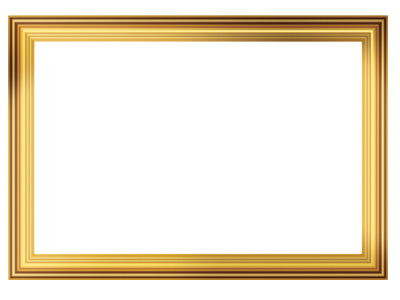
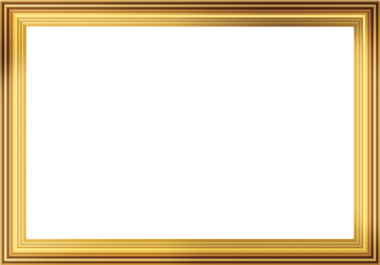
hw done

diff --git a/Sontag_Response_Site/index.html b/Sontag_Response_Site/index.html
@@ -5,20 +5,32 @@
     </head>
     <body>
         <h1>The World Collection</h1>
+        <p><b><i>"To collect photographs is to collect the world."</i> - Sontag pg.1 </b></p>
+        <br>
+        <br>
+        <p>Susan Sontag's "On Photgraphy" has a chapter called "In Plato's Cave" which describes implicit and explicit things within concept of photography.</p>
+        
+        <p>Commonly in society images are shown to us through various means. So much so that we interpret a lot of things through imagery, whether literal, mental, philosophical and more. 
+        Bilboards, posters, screens, print, and even imagination. It is all around us that it powers most people's imagination and way of thinking.
+        Reality is interpreted through the records and expositions given by images.
+
+        To take a photograph is to both be present and absent. You capture the moment which is active, but unless you're in it via selfie or reflection, you also appear absent from the scene 
+        as you are not in frame and pause the action you may be in to capture it.
+        
+            
+        It is common practice to take photos and create an intentional or unintentional memoriabilia gallery. It takes record of families, trips, everyday life, activities, celebrations, sorrows.
+        </p> 
+        <p> "Memorializing the achievements of individuals considered as
+        members of families (as well as of other groups) is the earliest
+        popular use of photography." - Sontag pg5
+        </p>
+        <p>
+        Through photographs we safeguard, interpret, admire, judge, enforce, feel, aggrivate, propagate, remember, inspire,  act, stay idle, capture...
+
+        </p>
         <div class="container">
             <div class="image">
-                <img src="https://source.unsplash.com/random">
-            </div>
-            <div class="image">
-                <img src="https://source.unsplash.com/random">
-            </div>
-        </div>
-        <div class="container">
-            <div class="image">
-                <img src="https://source.unsplash.com/random">
-            </div>
-            <div class="image">
-                <img src="https://source.unsplash.com/random">
+                <img src="https://picsum.photos/3000/1000">
             </div>
         </div>
     </body>

diff --git a/Sontag_Response_Site/style.css b/Sontag_Response_Site/style.css
@@ -13,24 +13,37 @@ h1 {
     color: #EFCA57;
     font-family: 'Academy Engraved LET', sans-serif;
 }
+
+p {
+    display: flex;
+    justify-content: center;
+    align-content: center;
+    padding-top: 10px;
+    padding-bottom: 0px;
+    font-size: 20px;
+    color: #EFCA57;
+    font-family: 'Academy Engraved LET', sans-serif;
+}
+
 .container {
     display: flex;
     flex-flow: row;
+    align-items: center;
     justify-content: space-between;
 }
 
 .image {
     flex: 50%;
     margin-top: 10px;
-
+    background-clip: border-box;
+    background-color: antiquewhite;
     width: fit-content;
-    border-width: 60px;
+    border-width: 3vw;
     border-style: solid;
-    border-image: url(RrORbv-gold-frame-with-straight-lines-png-copy.png) 50 round;  
+    border-image: url(RrORbv-gold-frame-with-straight-lines-png-copy.png) 40 round;  
 }
-:root {
-    --lst: url="https://picsum.photos/v2/list";
-}
+
 .image img {
-    width: 40vw;
+    width: 91vw;
+    padding: 1vw;
 }
